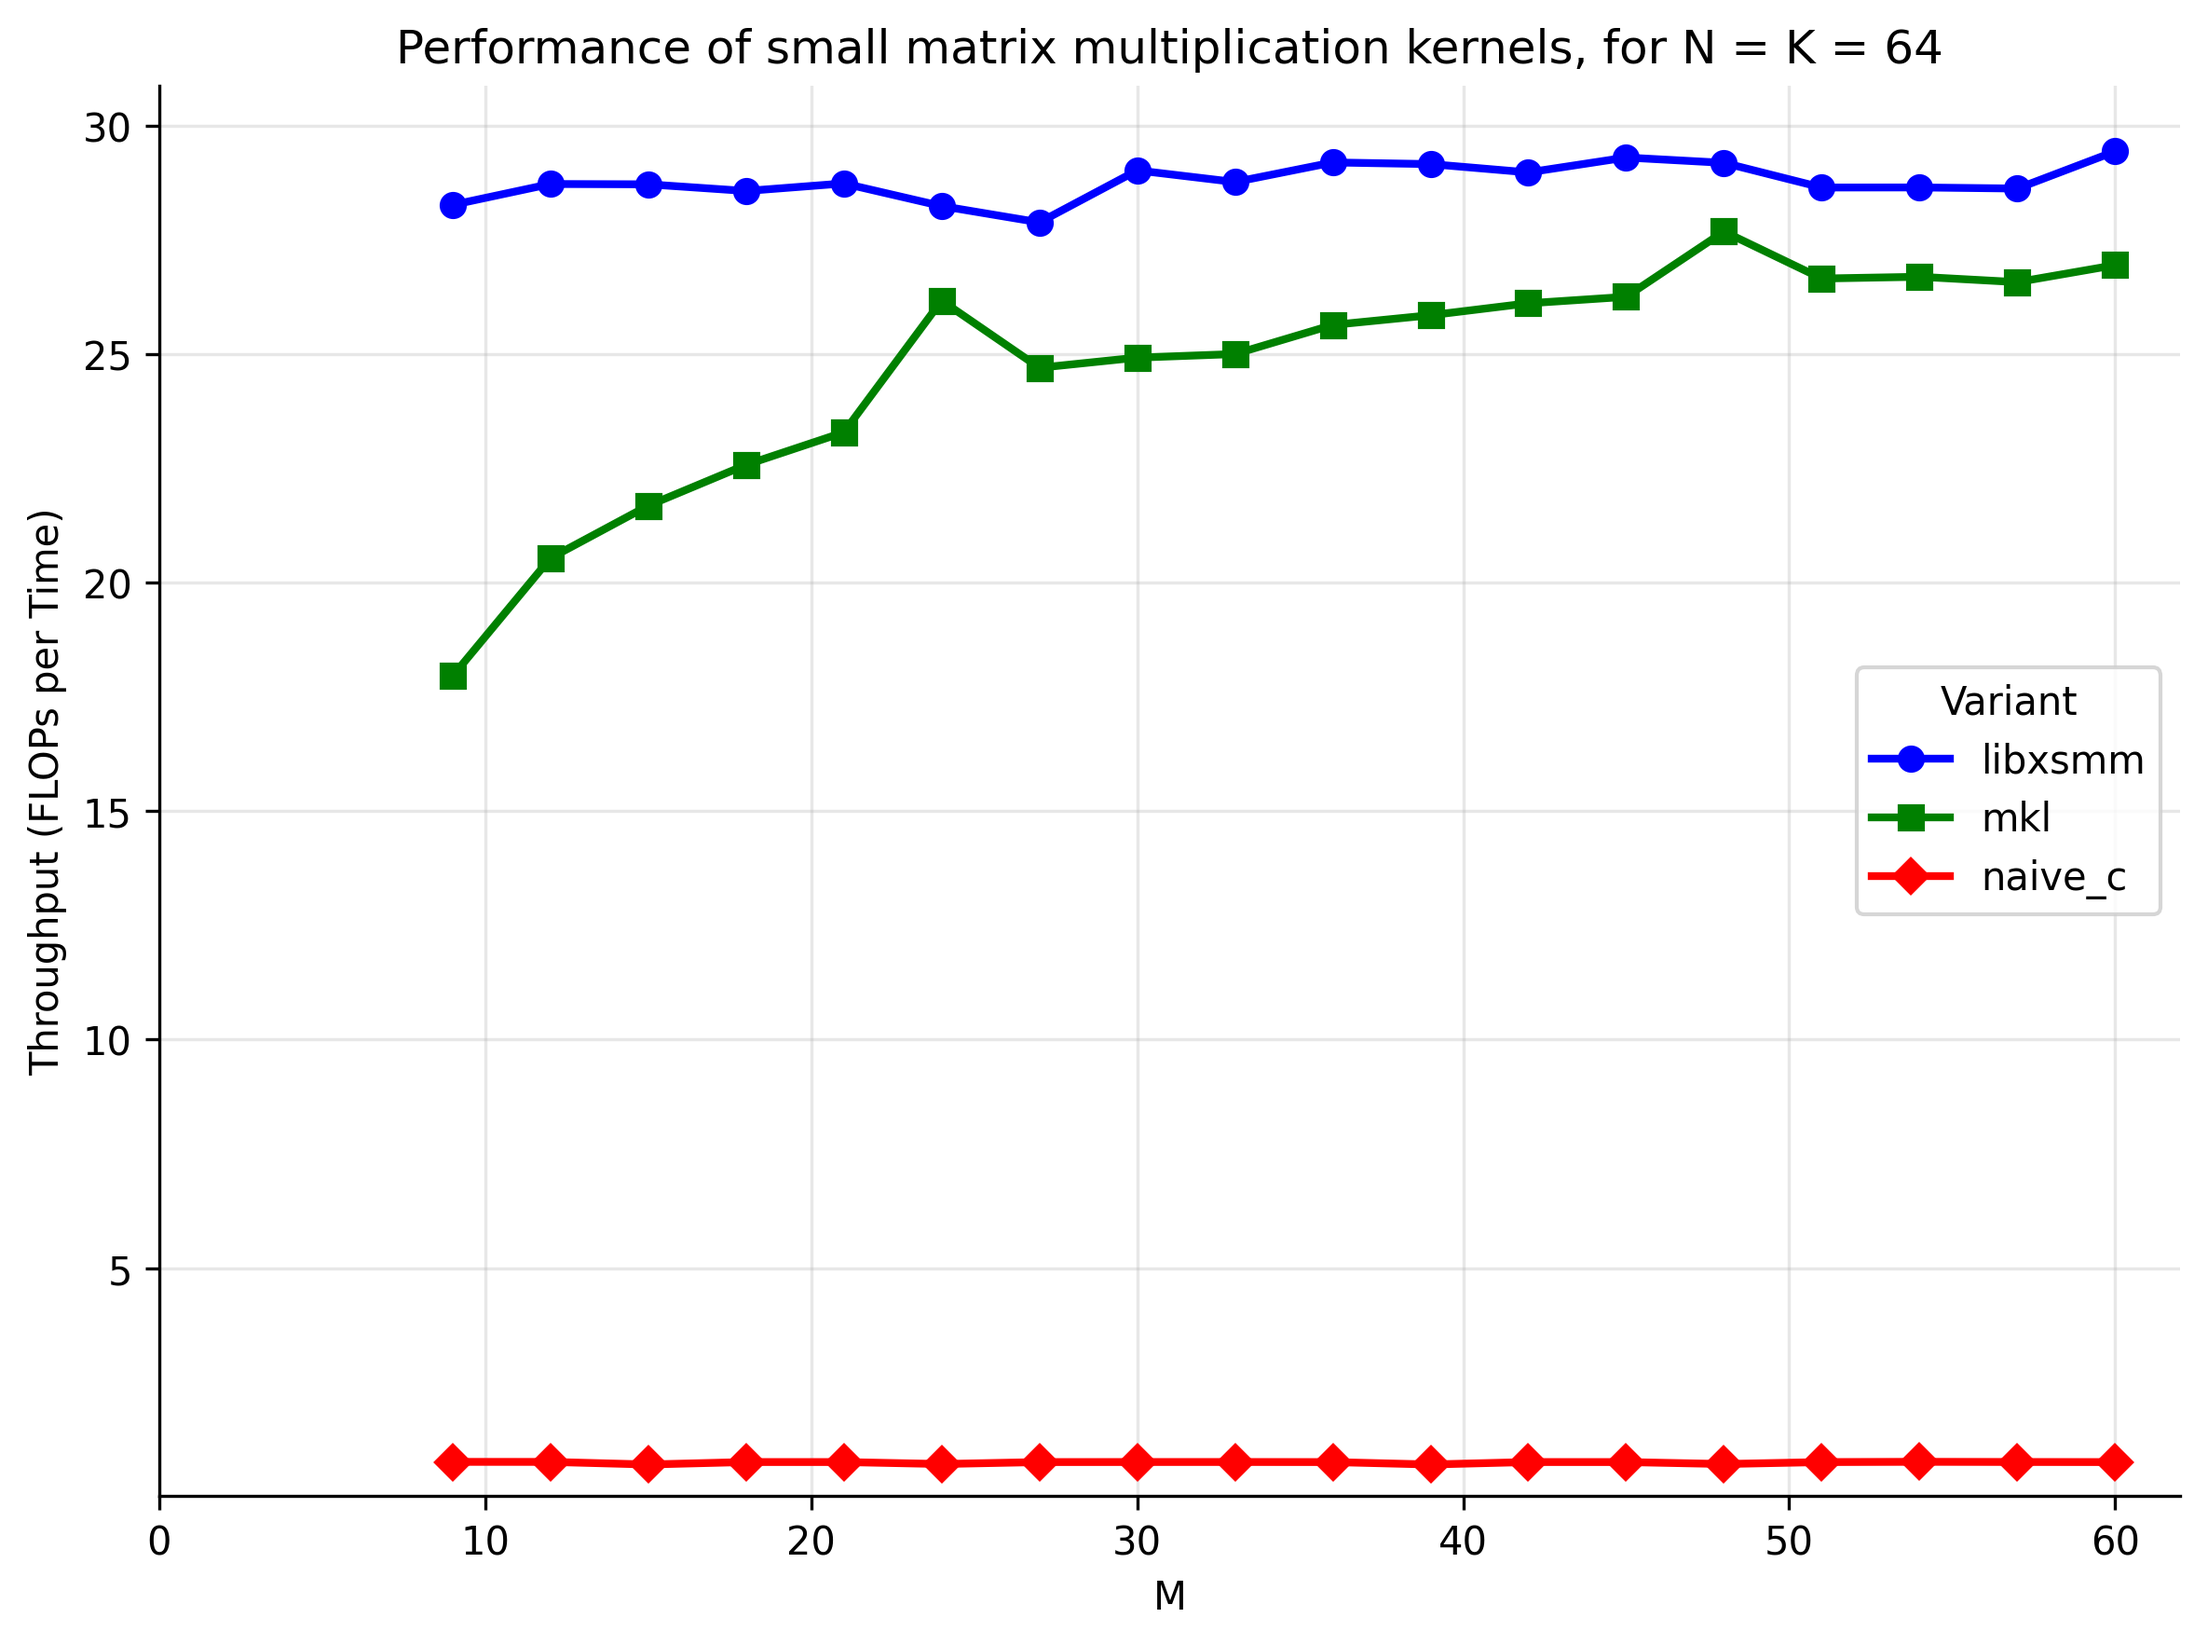
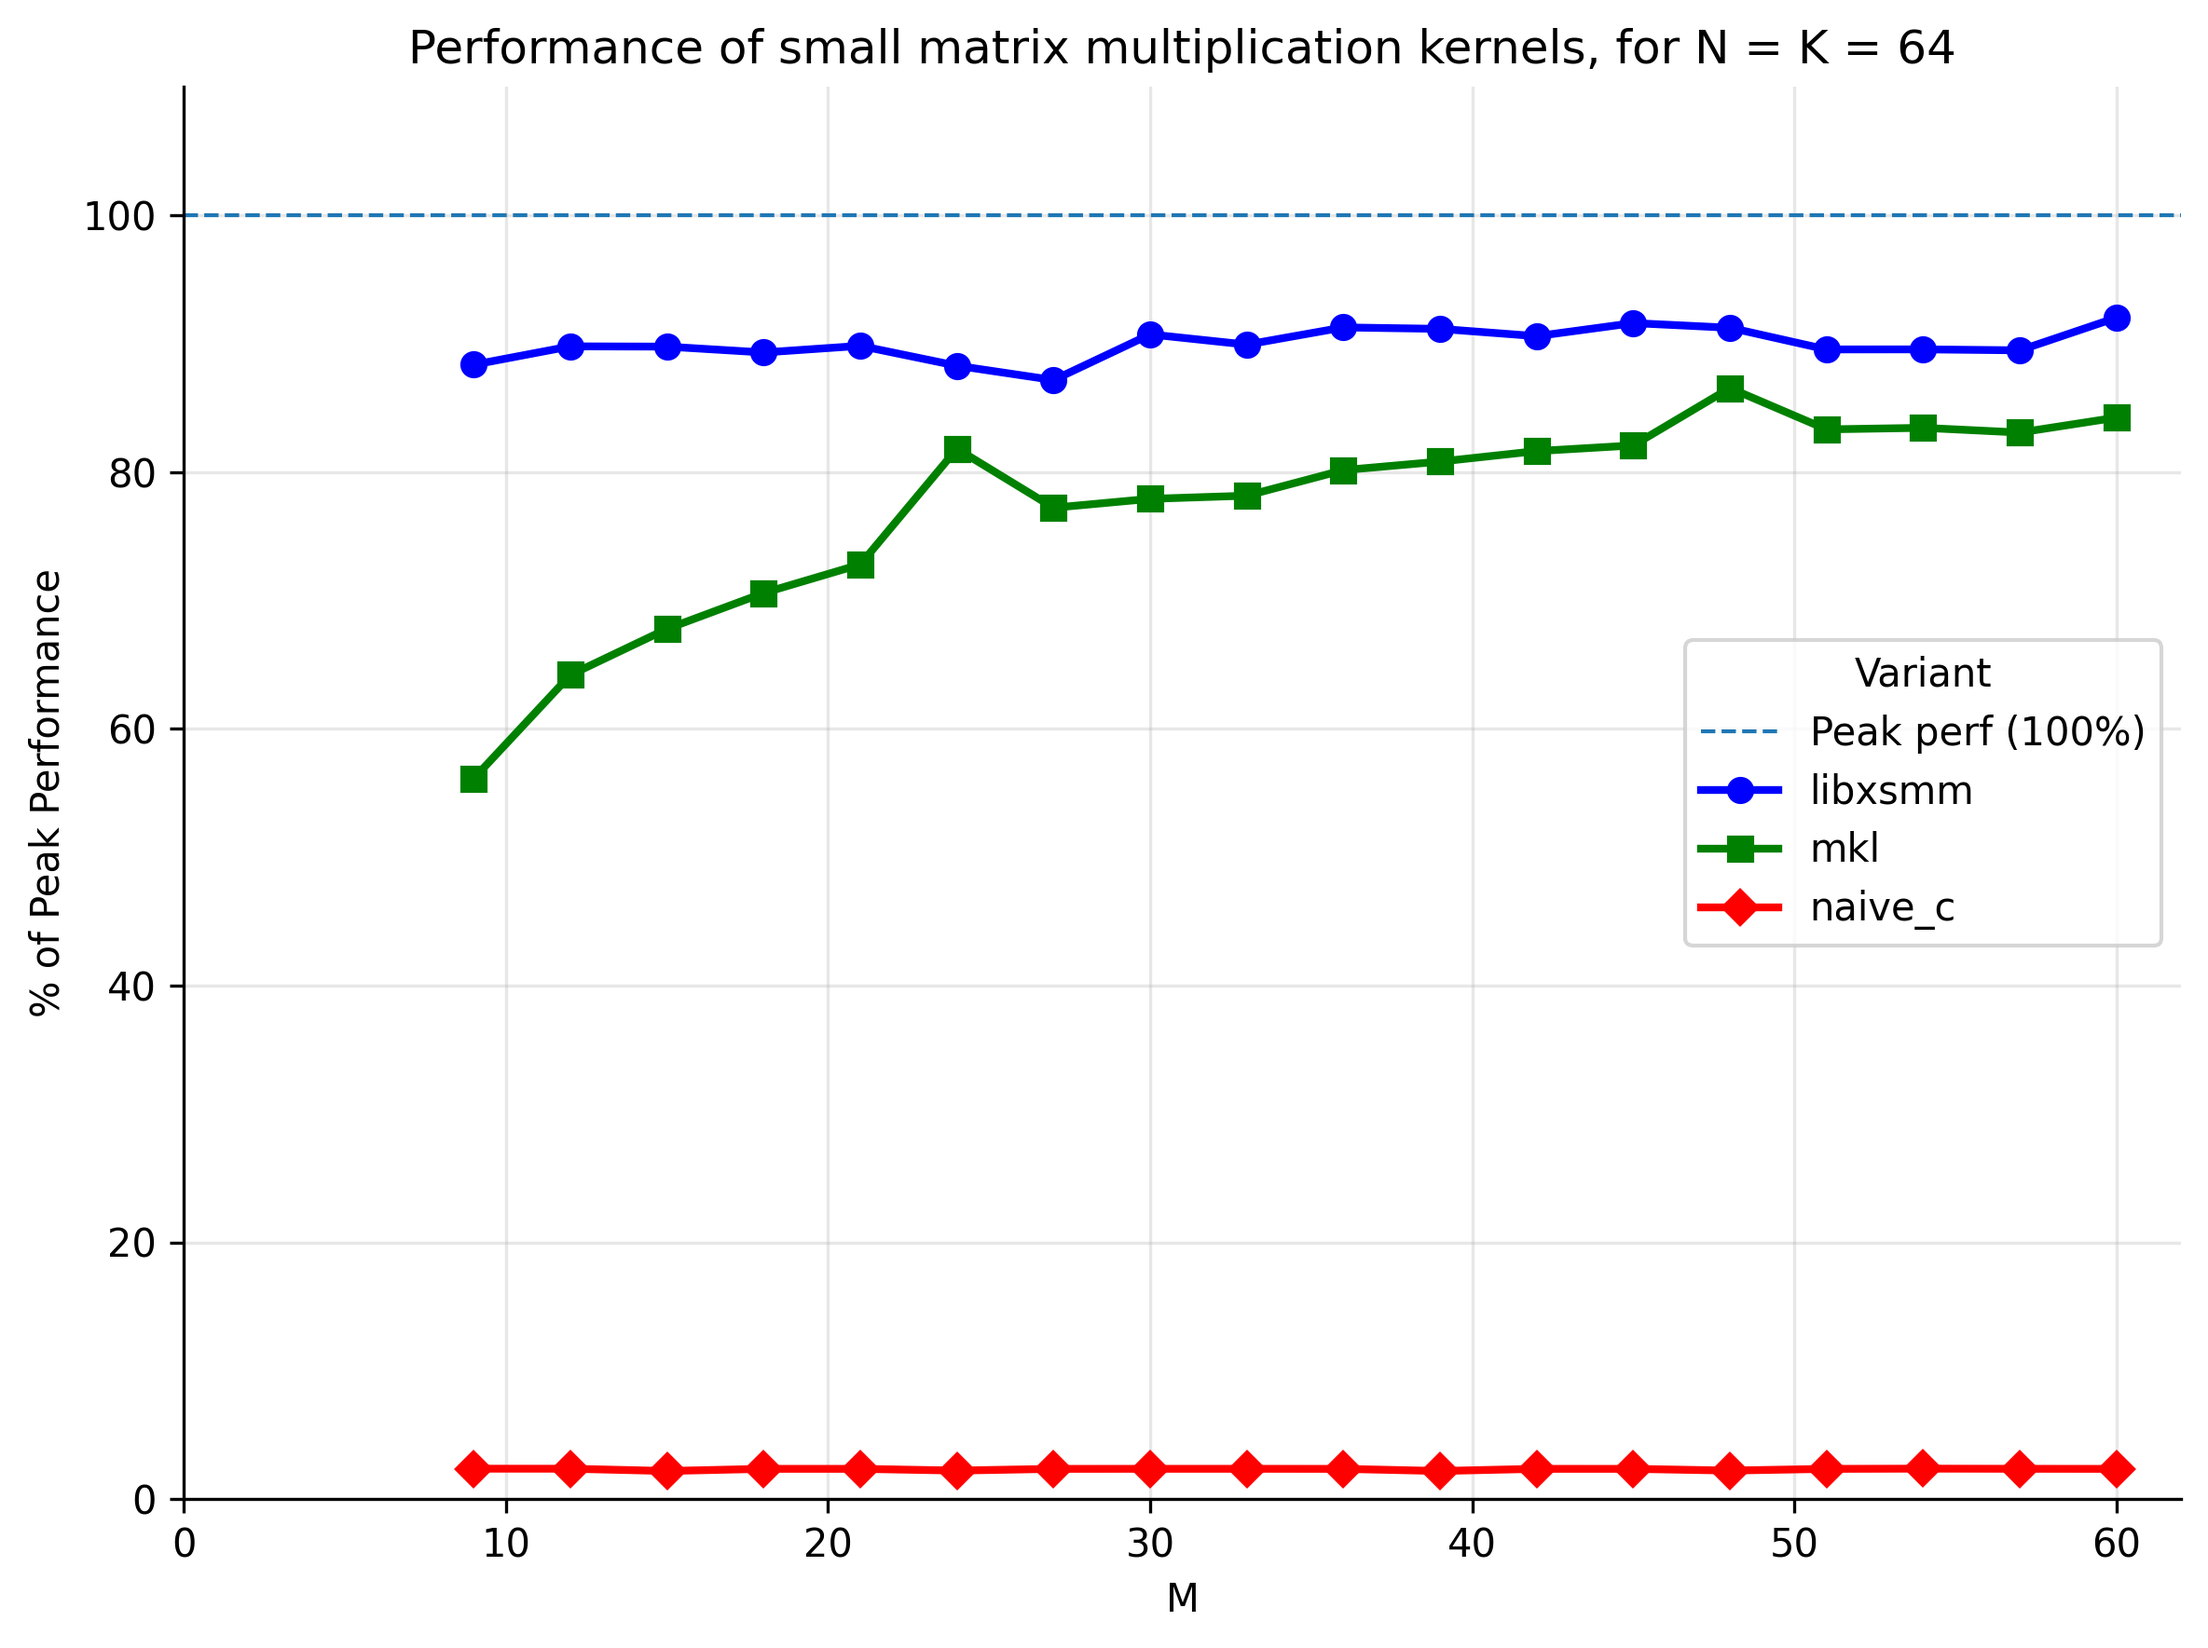
plot roofline in plots (#200)

diff --git a/src/autotuner/plot_ttile.py b/src/autotuner/plot_ttile.py
@@ -23,7 +23,27 @@ def plot_flops_per_time(df: pd.DataFrame, output_file: Path | None = None):
     (k,) = ks
     (dtype,) = dtypes
 
+    # Get peak performance if available
+
+    peak = None
+    if "peak" in df.columns:
+        peaks = df["peak"].dropna().unique()
+        if len(peaks) > 0:
+            peak = float(peaks[0])
+            if peak == 0.0:
+                # Peak is not set
+                peak = None
+
     fig, ax = plt.subplots(figsize=(8, 6))
+
+    # Peak perf horizontal line at 100%
+    if peak is not None:
+        # Convert throughput to percentage of peak
+        valid_data["throughput_percent"] = (valid_data["throughput"] / peak) * 100
+        ax.axhline(100, linestyle="--", linewidth=1, label="Peak perf (100%)")
+        y_col = "throughput_percent"
+    else:
+        y_col = "throughput"
 
     # Assign a color and marker for each variant
     import itertools
@@ -38,7 +58,7 @@ def plot_flops_per_time(df: pd.DataFrame, output_file: Path | None = None):
         group = group.sort_values("M")
         ax.plot(
             group["M"],
-            group["throughput"],
+            group[y_col],
             label=variant,
             color=color,
             marker=marker,
@@ -47,11 +67,15 @@ def plot_flops_per_time(df: pd.DataFrame, output_file: Path | None = None):
         )
 
     ax.set_xlabel("M")
-    ax.set_ylabel("Throughput (FLOPs per Time)")
+    if peak is not None:
+        ax.set_ylabel("% of Peak Performance")
+        ax.set_ylim(0, 110.0)
+    else:
+        ax.set_ylabel("Throughput (FLOPs per Time)")
+        ax.set_ylim(bottom=1e-2)  # Avoid log(0); adjust as needed for your data
     ax.set_title(f"Performance of small matrix multiplication kernels, for N = K = {n}")
     ax.grid(True, alpha=0.3)
     ax.set_xlim(0, valid_data["M"].max() + 2)
-    ax.set_ylim(bottom=1e-2)  # Avoid log(0); adjust as needed for your data
     ax.spines["top"].set_visible(False)
     ax.spines["right"].set_visible(False)
     ax.legend(title="Variant")
